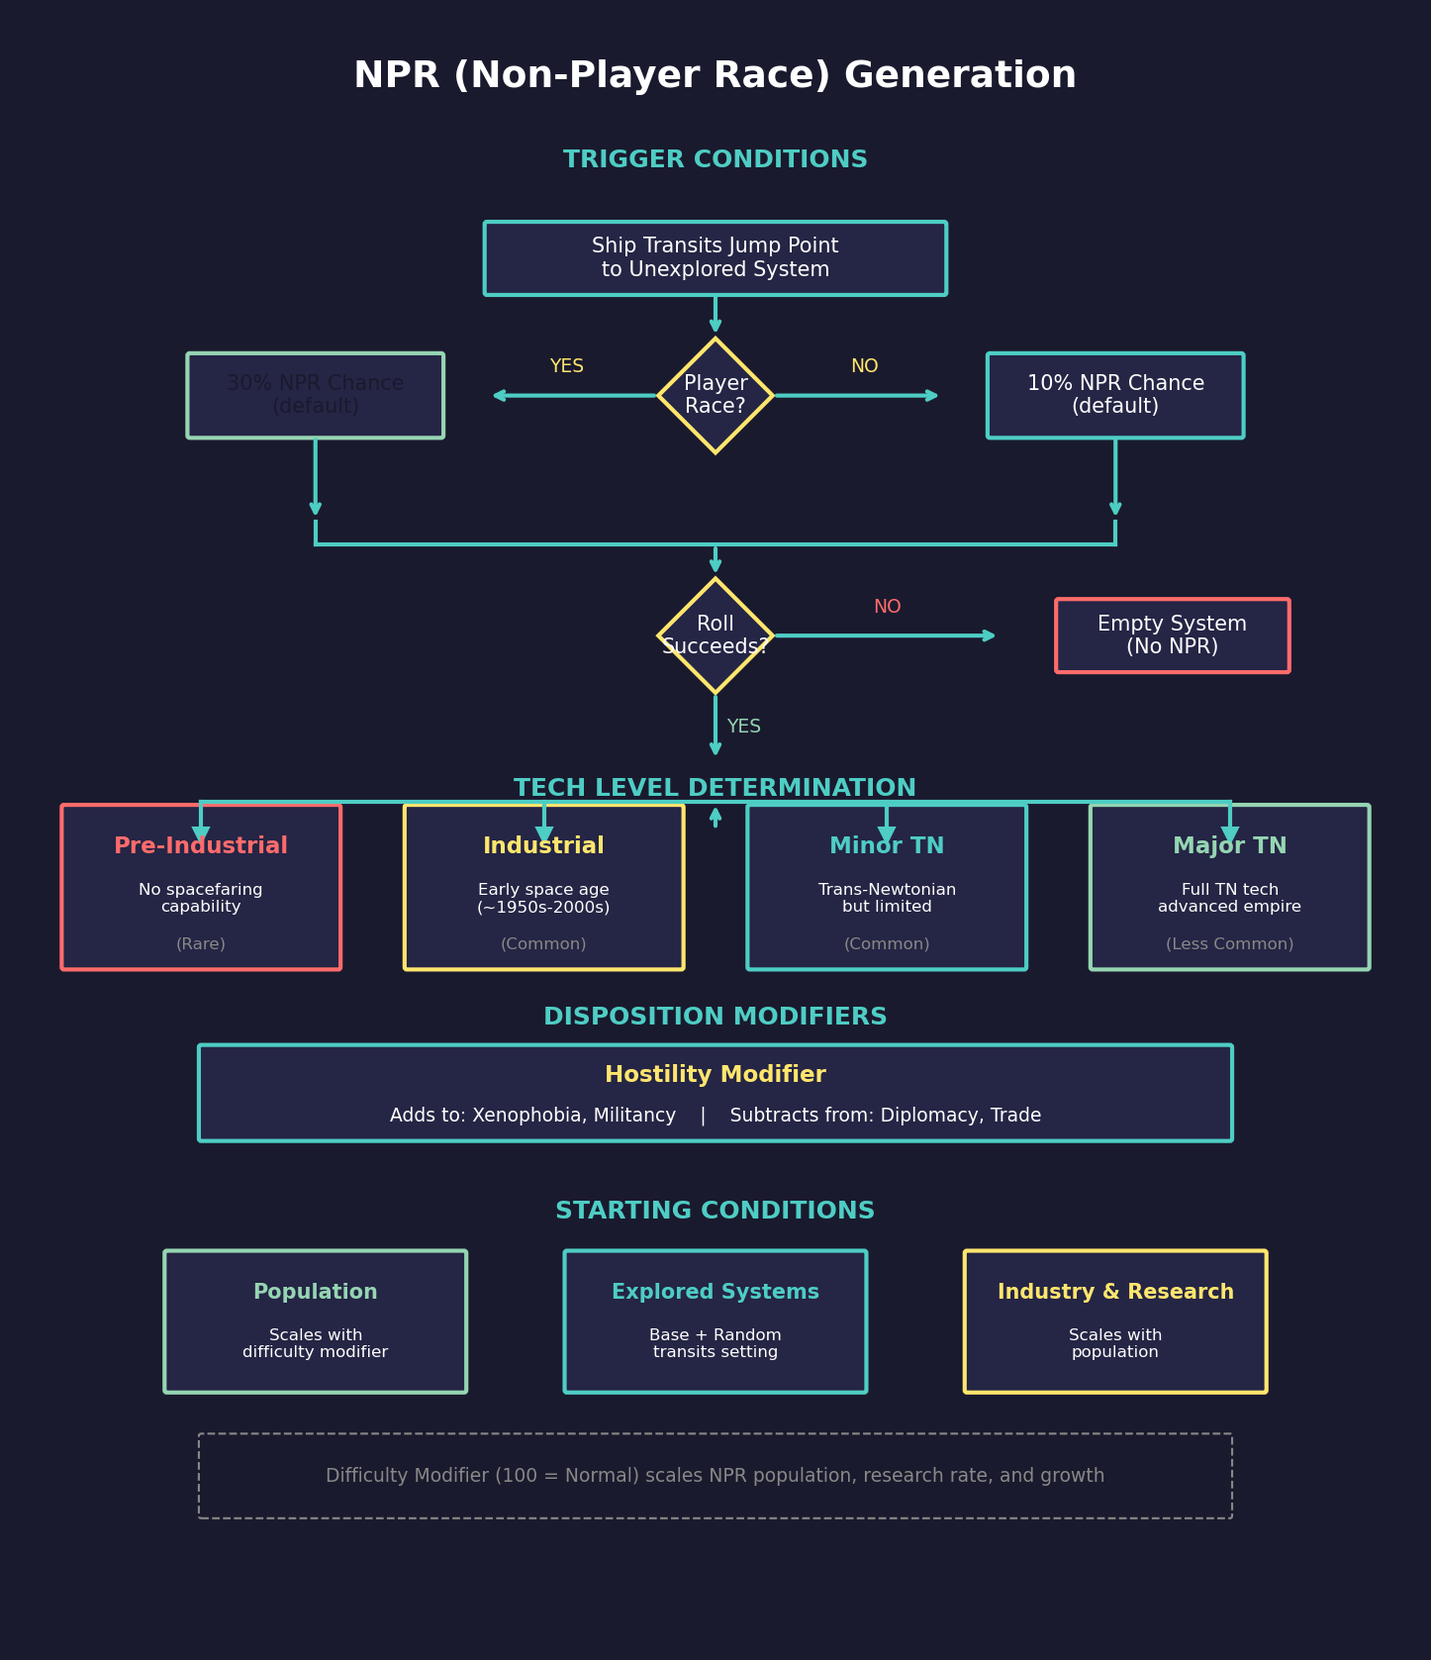
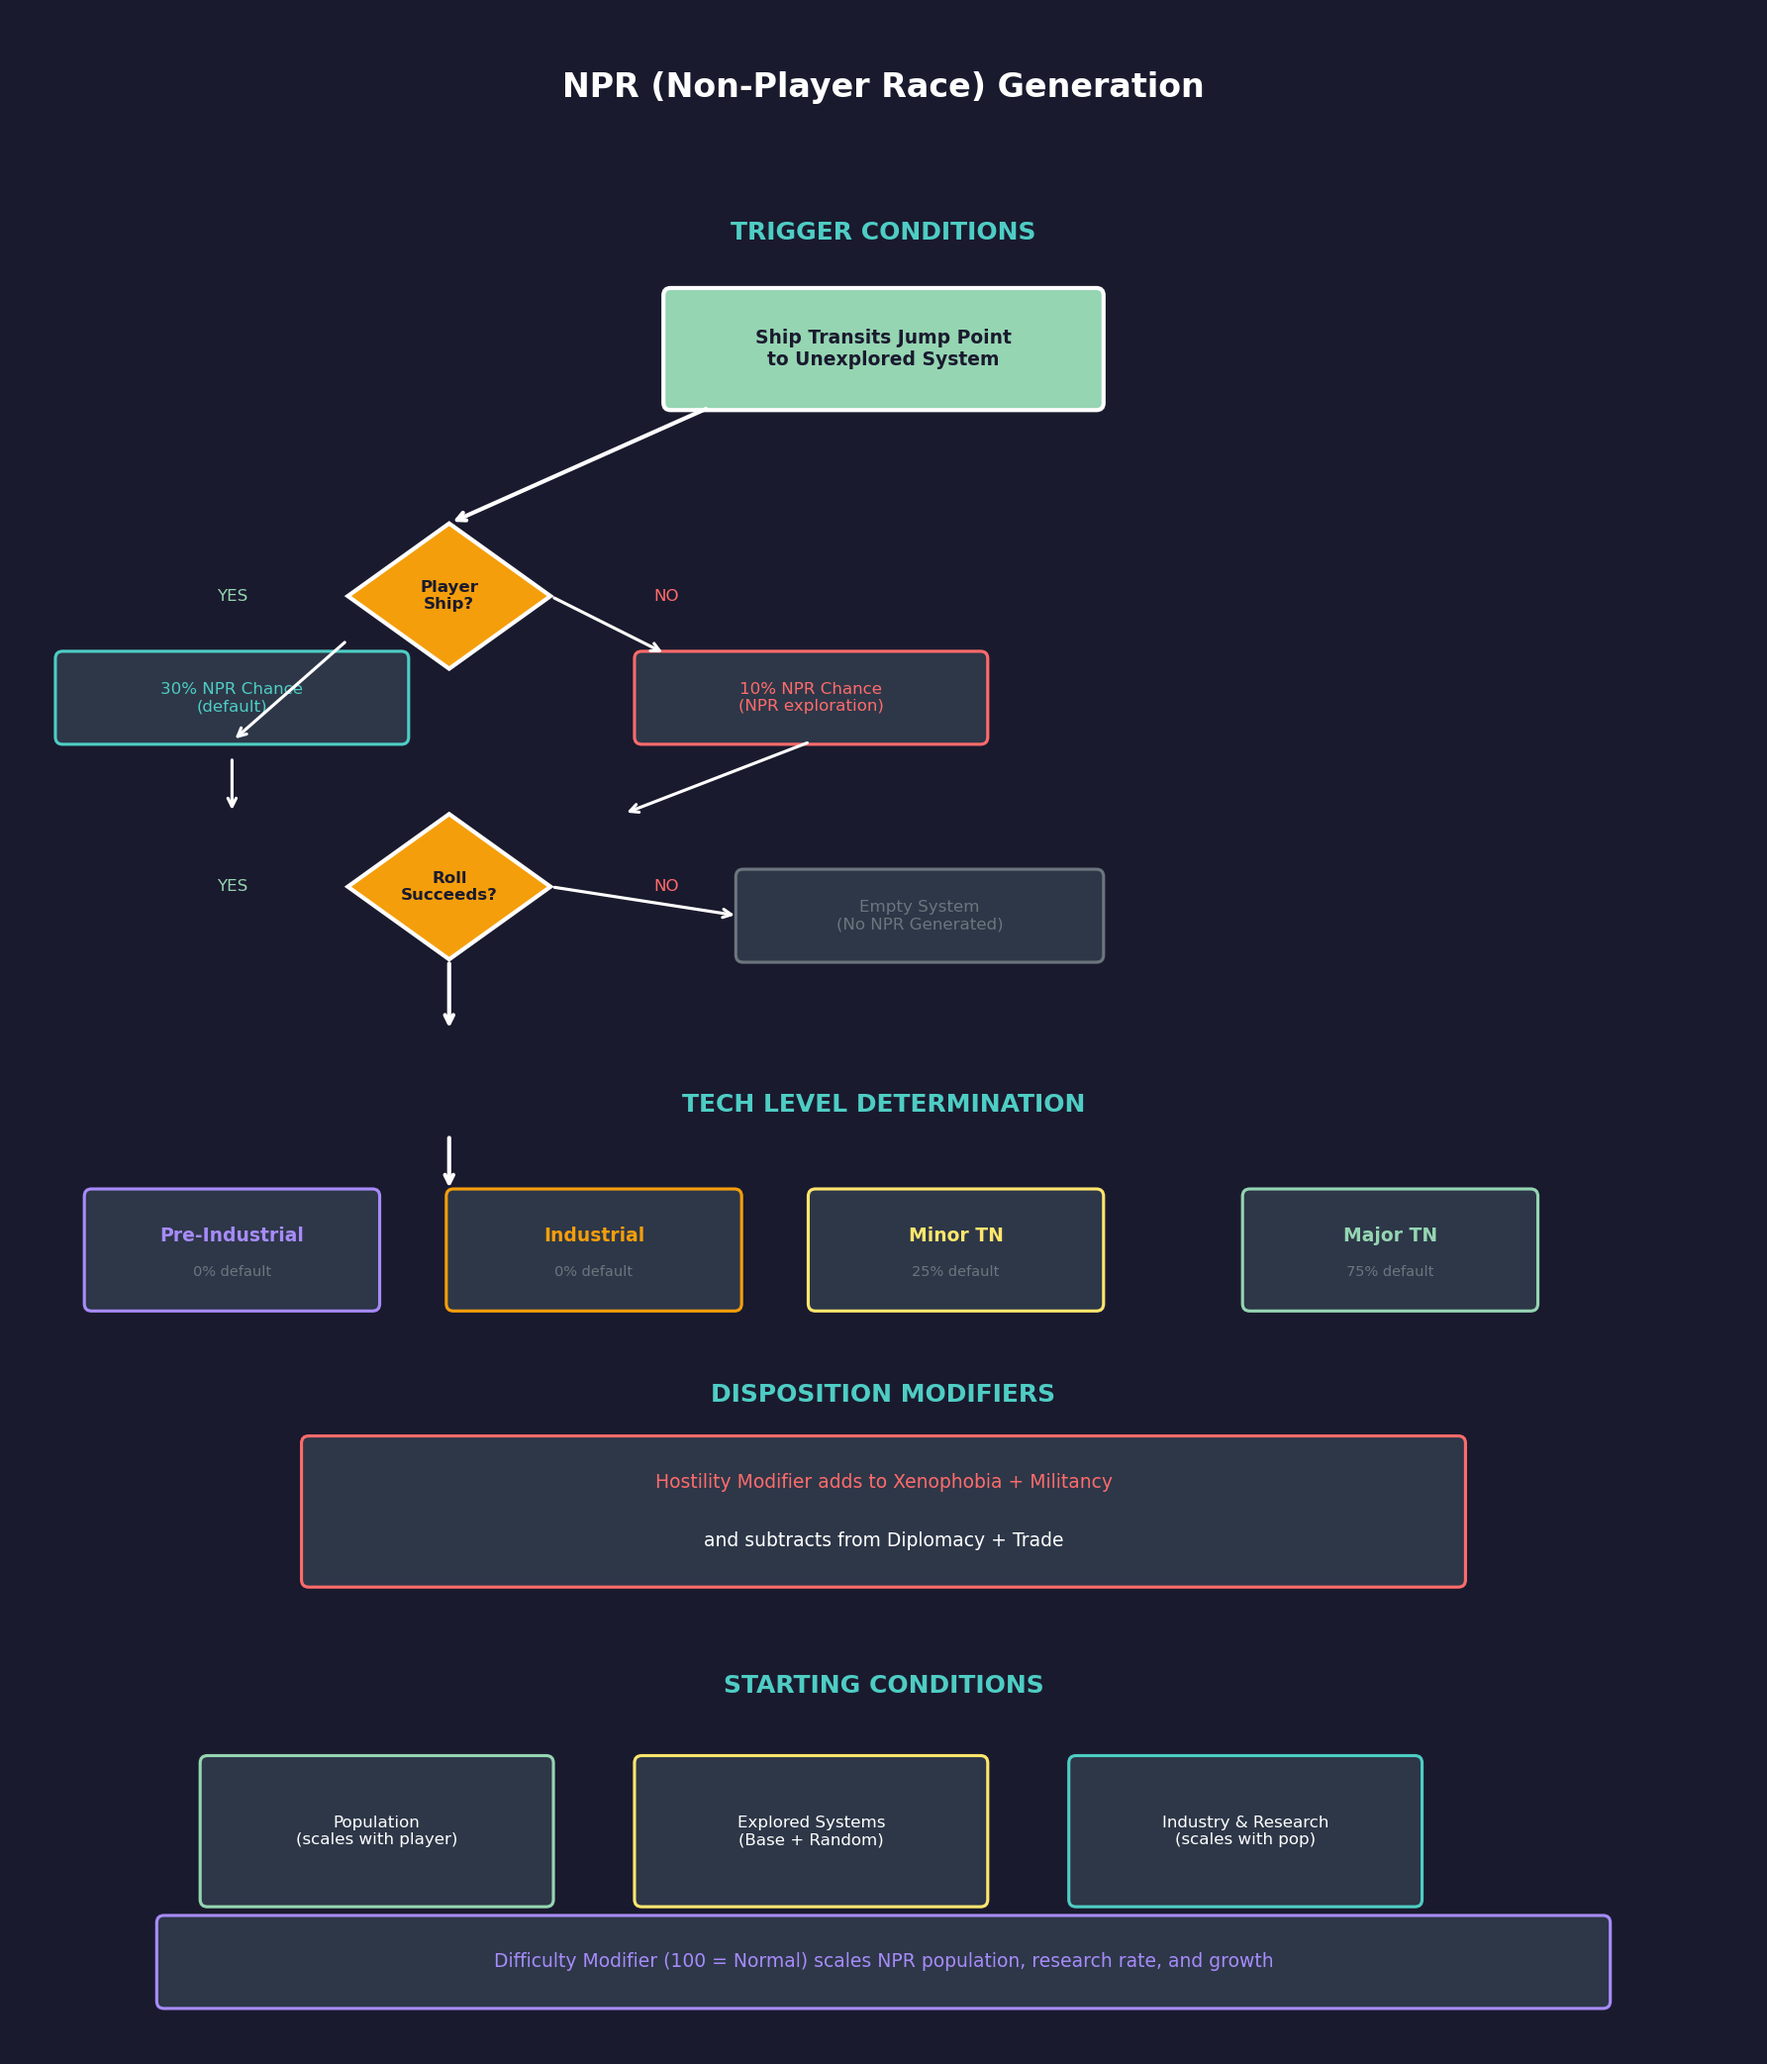
Fix illegible Pre-Industrial text in NPR Generation diagram
Changed Pre-Industrial tech level color from GRAY (#6c757d) to
PURPLE (#a78bfa) for better visibility against dark background.

diff --git a/scripts/generate-wave6-diagrams.py b/scripts/generate-wave6-diagrams.py
@@ -530,7 +530,7 @@ def create_npr_generation_flowchart():
             fontsize=12, color=CYAN, fontweight='bold')
 
     tech_levels = [
-        (1.5, 5.5, 'Pre-Industrial', '0% default', GRAY),
+        (1.5, 5.5, 'Pre-Industrial', '0% default', PURPLE),
         (4, 5.5, 'Industrial', '0% default', ORANGE),
         (6.5, 5.5, 'Minor TN', '25% default', YELLOW),
         (9.5, 5.5, 'Major TN', '75% default', GREEN),
